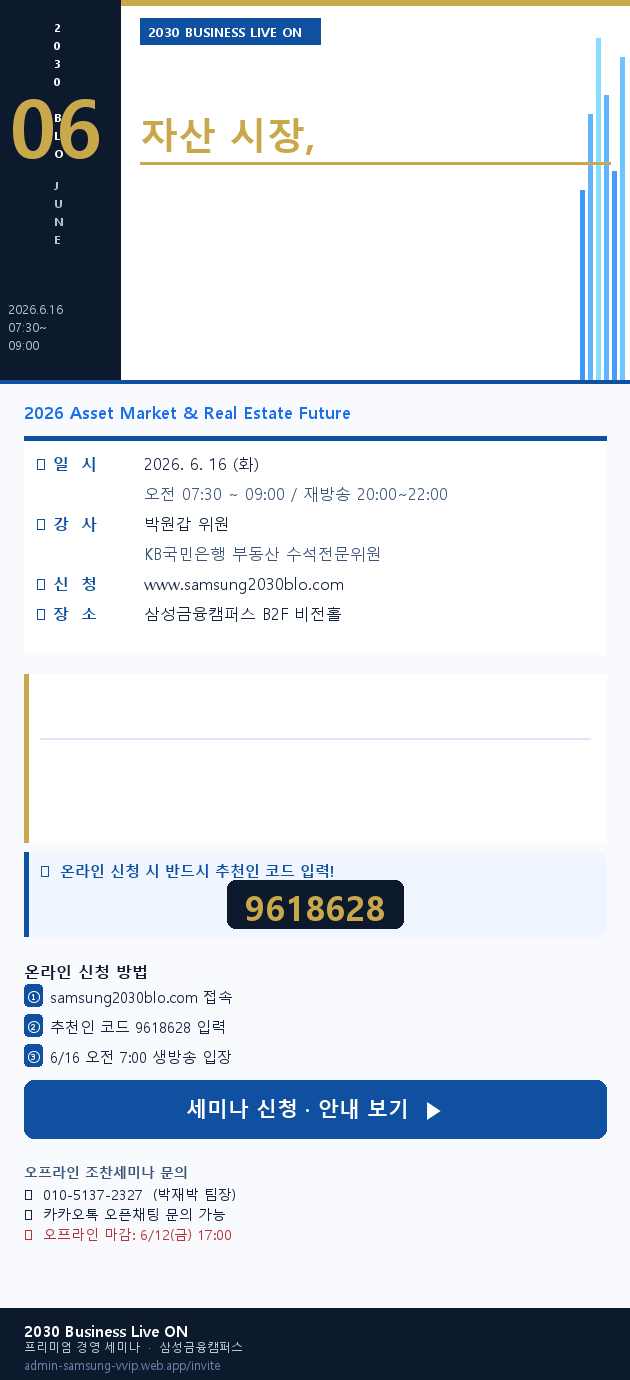
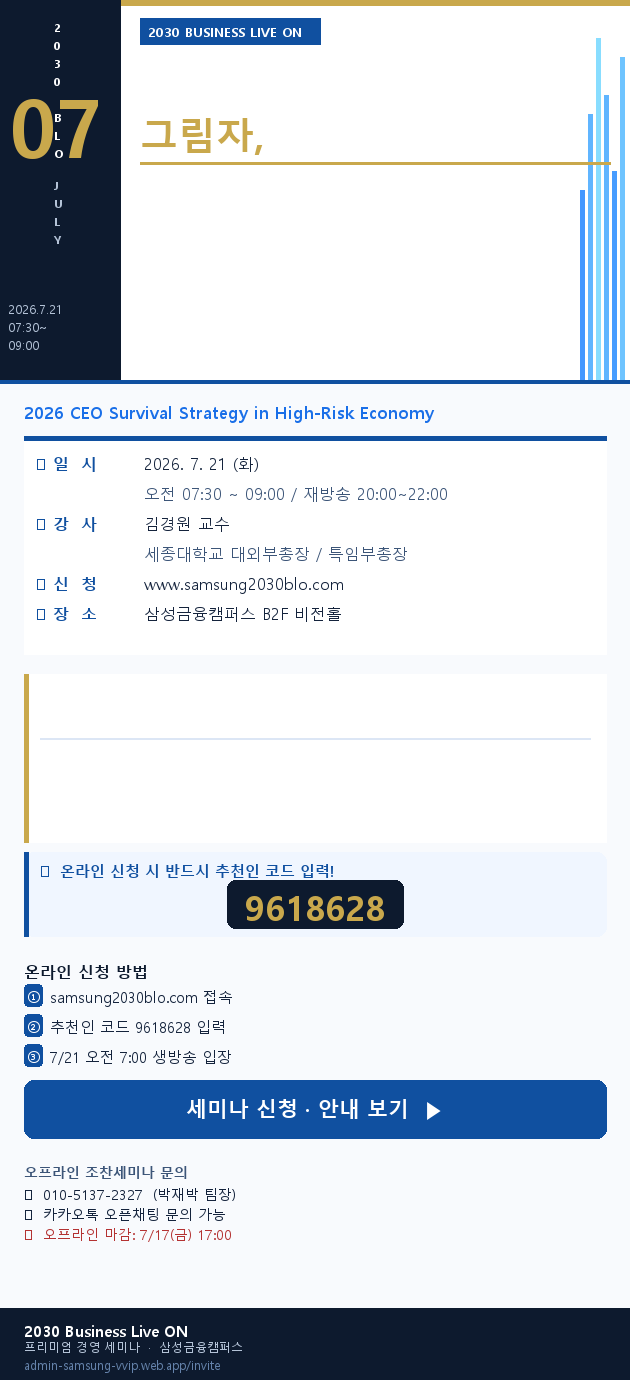
feat: 7월 세미나 전면 반영 - 3高 불황의 그림자 / 김경원 교수
- invite.html: 7월 세미나 전체 업데이트
  - 종료 배너 제거, 신청 섹션 복원
  - 강사: 박원갑 위원 → 김경원 교수 (세종대 대외부총장)
  - 일시: 7.21(화) 오전 7:30~9:00, 오프라인 마감 7/17(금)
  - 연간 일정: 07.21 신청중(▶) 표시
  - Sticky CTA 복원, shareInvite() 7월 내용 반영
- data/current-seminar.json: 7월 데이터로 전면 교체
- data/seminars/data-2026-07.json: 신규 생성
- index.html: CURRENT_DATA_FILE → data-2026-07.json
- data/schedule-2026.json: 2026-07 current, 김경원 교수
- OG 이미지 재생성 (v13)

diff --git a/invite.html b/invite.html
@@ -4,16 +4,16 @@
 <meta charset="UTF-8">
 <meta name="viewport" content="width=device-width, initial-scale=1.0, maximum-scale=1.0, user-scalable=no">
 <meta property="og:type" content="website">
-<meta property="og:title" content="BLO 조찬세미나 | 6월 행사 종료 · 7월 세미나 신청 안내">
-<meta property="og:description" content="변화하는 자산 시장, 부동산의 미래 | 6/16(화) 행사 종료 | 다음 세미나: 7/21(화) | www.samsung2030blo.com">
-<meta property="og:url" content="https://admin-samsung-vvip.web.app/invite?m=2026-06">
-<meta property="og:image" content="https://admin-samsung-vvip.web.app/assets/og-kakao-wide.png?v=12">
+<meta property="og:title" content="BLO 조찬세미나 | 세미나 신청하기 · 추천인코드 9618628">
+<meta property="og:description" content="3高 불황의 그림자, CEO의 하반기 생존 전략 | 7/21(화) 오전 7:30 | 김경원 교수 | 신청: www.samsung2030blo.com">
+<meta property="og:url" content="https://admin-samsung-vvip.web.app/invite?m=2026-07">
+<meta property="og:image" content="https://admin-samsung-vvip.web.app/assets/og-kakao-wide.png?v=13">
 <meta property="og:image:width" content="1024">
 <meta property="og:image:height" content="576">
 <meta name="twitter:card" content="summary_large_image">
 <link rel="preconnect" href="https://cdn.jsdelivr.net">
 <link rel="stylesheet" href="https://cdn.jsdelivr.net/gh/orioncactus/pretendard@v1.3.9/dist/web/static/pretendard.min.css">
-<title>변화하는 자산 시장, 부동산의 미래</title>
+<title>3高 불황의 그림자, CEO의 하반기 생존 전략</title>
 <style>
 * { margin:0; padding:0; box-sizing:border-box; -webkit-tap-highlight-color:transparent; }
 html, body {
@@ -662,14 +662,6 @@ html, body {
 <body>
 <div class="wrap">
 
-<!-- 행사 종료 배너 -->
-<div class="ended-banner">
-  <div class="ended-banner-badge">⛔ 행사 종료</div>
-  <div class="ended-banner-title">6월 세미나가 종료되었습니다</div>
-  <div class="ended-banner-sub">2026.6.16(화) · 변화하는 자산 시장, 부동산의 미래</div>
-  <div class="ended-banner-next">▶ 다음 세미나: 7/21(화) · 3高 불황의 그림자</div>
-</div>
-
 <!-- ① 히어로 -->
 <div class="hero">
   <div class="hero-topbar">
@@ -677,14 +669,14 @@ html, body {
       <div class="blo-mark-sub">2030 BUSINESS</div>
       <div class="blo-mark-main">LIVE ON</div>
     </div>
-    <div class="hero-tag">6월 세미나</div>
+    <div class="hero-tag">7월 세미나</div>
   </div>
   <div class="hero-main">
-    <div class="hero-month">06</div>
+    <div class="hero-month">07</div>
     <div>
-      <div class="hero-label">JUNE 2026 · REAL ESTATE INSIGHT</div>
-      <h1 class="hero-h1"><em>변화하는</em><br>자산 시장,<br>부동산의 미래</h1>
-      <div class="hero-sub">2026 Asset Market & Real Estate Future</div>
+      <div class="hero-label">JULY 2026 · CEO SURVIVAL STRATEGY</div>
+      <h1 class="hero-h1"><em>3高 불황의</em><br>그림자,<br>CEO의 하반기 생존 전략</h1>
+      <div class="hero-sub">2026 CEO Survival Strategy in High-Risk Economy</div>
     </div>
   </div>
   <div class="hero-divider"></div>
@@ -695,16 +687,17 @@ html, body {
   <div class="speakers-title">강사 소개</div>
   <div class="speaker-row">
     <div class="sp-circle">
-      <div class="sp-circle-name">박원갑</div>
-      <div class="sp-circle-title">위원</div>
+      <div class="sp-circle-name">김경원</div>
+      <div class="sp-circle-title">교수</div>
     </div>
     <div class="sp-detail">
-      <div class="sp-name">박원갑 <span>위원</span></div>
+      <div class="sp-name">김경원 <span>교수</span></div>
       <div class="sp-creds">
-        <span class="sp-cred">KB국민은행 부동산 수석전문위원</span>
-        <span class="sp-cred">국토교통부 주택정책 자문단 위원</span>
-        <span class="sp-cred">부동산1번지 부동산연구소 대표</span>
-        <span class="sp-cred">한국부동산산업학회 부회장</span>
+        <span class="sp-cred">세종대학교 대외부총장 / 특임부총장</span>
+        <span class="sp-cred">세종대학교 경영대학 학장 / 교수</span>
+        <span class="sp-cred">국제경영대학발전협의회 (AACSB)</span>
+        <span class="sp-cred">삼성경제연구소 글로벌연구실장 / 전무</span>
+        <span class="sp-cred">삼성증권 리서치센터장</span>
       </div>
     </div>
   </div>
@@ -716,7 +709,7 @@ html, body {
     <div class="info-icon">📅</div>
     <div>
       <div class="info-lbl">DATE &amp; TIME</div>
-      <div class="info-val">2026.6.16 (화) 오전 07:30 ~ 09:00</div>
+      <div class="info-val">2026.7.21 (화) 오전 07:30 ~ 09:00</div>
       <div class="info-sub">※ 7:00부터 접속 가능 · 재방송 20:00~22:00</div>
     </div>
   </div>
@@ -733,7 +726,7 @@ html, body {
     <div>
       <div class="info-lbl">OFFLINE 장소</div>
       <div class="info-val">삼성금융캠퍼스 B2F 비전홀</div>
-      <div class="info-sub">서울 서초구 사임당로 23길 27 · 오프라인 마감 <strong>6/12(금) 17시</strong></div>
+      <div class="info-sub">서울 서초구 사임당로 23길 27 · 오프라인 마감 <strong>7/17(금) 17시</strong></div>
     </div>
   </div>
   <div class="info-row">
@@ -748,27 +741,13 @@ html, body {
 
 <!-- ④ 본문 -->
 <div class="body-sec">
-  <p>대전환의 시대 속에서<br>대한민국 부동산의 미래는 어디로 향하고 있을까요?</p>
-  <p>부의 이동, 불안과 기대가 함께하는 현재<br>자산의 본질을 생각할 시기입니다.</p>
-  <p>6월 Business Live ON에서는<br>박원갑 수석전문위원과 함께<br>부동산 시장을 분석하고 전망합니다.</p>
+  <p>지정학적 리스크와 함께 찾아온<br>3高 불황의 그림자</p>
+  <p>대내외 경제 변수의 변화 속<br>생존하는 기업의 의사결정은<br>무엇이, 어떻게 다를까요?</p>
+  <p>7월 Business Live ON에서는<br>세종대 김경원 부총장과 함께<br>CEO의 생존 전략을 짚어봅니다.</p>
 </div>
 
-<!-- ⑤ 신청 섹션 (행사 종료) -->
+<!-- ⑤ 신청 섹션 -->
 <div class="apply-sec" id="applySection">
-  <div class="apply-ended-overlay">
-    <div class="apply-ended-icon">🏁</div>
-    <div class="apply-ended-title">6월 세미나가 종료되었습니다</div>
-    <div class="apply-ended-desc">
-      2026.6.16(화) 오전 7:30 ~ 9:00<br>
-      변화하는 자산 시장, 부동산의 미래<br><br>
-      온라인 다시보기는 <strong style="color:#fff;">www.samsung2030blo.com</strong><br>
-      에서 시청 가능합니다.
-    </div>
-    <a class="apply-ended-next" href="http://www.samsung2030blo.com" target="_blank">
-      📺 온라인 다시보기 →
-    </a>
-  </div>
-  <div style="display:none;" id="applySection-hidden">
   <div class="apply-sec-title">세미나 신청하기</div>
   <div class="apply-sec-sub">아래에서 신청 방법을 선택해 주세요</div>
 
@@ -870,7 +849,7 @@ html, body {
         <div class="off-dot"></div>
         <div>
           <div class="off-lbl">신청 마감</div>
-          <div class="off-val">6/12(금) 17시까지</div>
+          <div class="off-val">7/17(금) 17시까지</div>
         </div>
       </div>
       <div class="off-hr"></div>
@@ -927,7 +906,6 @@ html, body {
     </div>
   </div><!-- /offlinePanel -->
 
-  </div><!-- /applySection-hidden -->
 </div><!-- /apply-sec -->
 
 <!-- ⑥ 행사 진행 흐름 -->
@@ -937,7 +915,7 @@ html, body {
     <div class="flow-step">
       <div class="flow-num">1</div>
       <div>
-        <div class="flow-time">사전 접수 · 6/12(금) 17시까지</div>
+        <div class="flow-time">사전 접수 · 7/17(금) 17시까지</div>
         <div class="flow-name">온라인/오프라인 신청</div>
         <div class="flow-desc">온라인: 이 페이지에서 바로 신청 / 오프라인: FP·FO 통해 신청</div>
       </div>
@@ -1051,10 +1029,11 @@ html, body {
         <span class="annl-q-theme">Human Insight · 격변에 대처하는 리더의 자세</span>
         <span class="annl-q-line"></span>
       </div>
-      <div class="annl-row">
+      <div class="annl-row current">
         <span class="annl-date">07.21</span>
         <span class="annl-type-tag">Class</span>
         <span class="annl-session-title">3高 불황의 그림자, CEO의 하반기 생존 전략</span>
+        <span class="annl-now-mark">▶ 신청중</span>
       </div>
       <div class="annl-row">
         <span class="annl-date">08.18</span>
@@ -1160,14 +1139,14 @@ html, body {
 <!-- 하단 고정 신청 버튼 -->
 <div class="sticky-cta">
   <div class="sticky-meta">
-    <span class="sticky-event-label">🏁 6/16(화) 행사 종료 · 다음 7/21(화)</span>
+    <span class="sticky-event-label">📅 7/21(화) · 삼성생명 BLO 조찬세미나</span>
     <div class="sticky-code-wrap">
       <span class="sticky-code-label">추천인 코드</span>
       <span class="sticky-code-value">9618628</span>
     </div>
   </div>
-  <a class="sticky-cta-btn ended" href="#">
-    ⛔ 6월 세미나 종료 · 다음 세미나 7/21
+  <a class="sticky-cta-btn" href="#applySection" onclick="stickyApplyClick(event)">
+    세미나 신청하기 ▶
   </a>
 </div>
 
@@ -1318,15 +1297,15 @@ function scrollToApply(e) {
 
 /* ── 초대장 공유 ── */
 function shareInvite() {
-  var base   = 'https://admin-samsung-vvip.web.app/invite?m=2026-06';
+  var base   = 'https://admin-samsung-vvip.web.app/invite?m=2026-07';
   var fpCode = new URLSearchParams(window.location.search).get('fp') || '';
   var url    = fpCode ? base + '&fp=' + fpCode : base;
   var msg =
     '📢 삼성생명 BLO 세미나 안내\n' +
     '━━━━━━━━━━━━━━━━\n' +
-    '📌 변화하는 자산 시장, 부동산의 미래\n' +
-    '📅 2026.6.16(화) 오전 7:30\n' +
-    '🎤 박원갑 수석전문위원\n' +
+    '📌 3高 불황의 그림자, CEO의 하반기 생존 전략\n' +
+    '📅 2026.7.21(화) 오전 7:30\n' +
+    '🎤 김경원 교수 (세종대 대외부총장)\n' +
     '━━━━━━━━━━━━━━━━\n' +
     '🍽 [오프라인 조찬세미나] 담당자 통해서만 신청\n' +
     '  카카오 오픈채팅: https://open.kakao.com/o/sleUSUei\n' +

diff --git a/index.html b/index.html
@@ -1010,8 +1010,8 @@
       }
     } catch(e) {}
 
-    const CURRENT_DATA_FILE = '/data/seminars/data-2026-06.json';
-    const CURRENT_SEMINAR_ID = '2026-06';
+    const CURRENT_DATA_FILE = '/data/seminars/data-2026-07.json';
+    const CURRENT_SEMINAR_ID = '2026-07';
     let counterUnsubscribe = null;
     let codeCopied = false;
 
